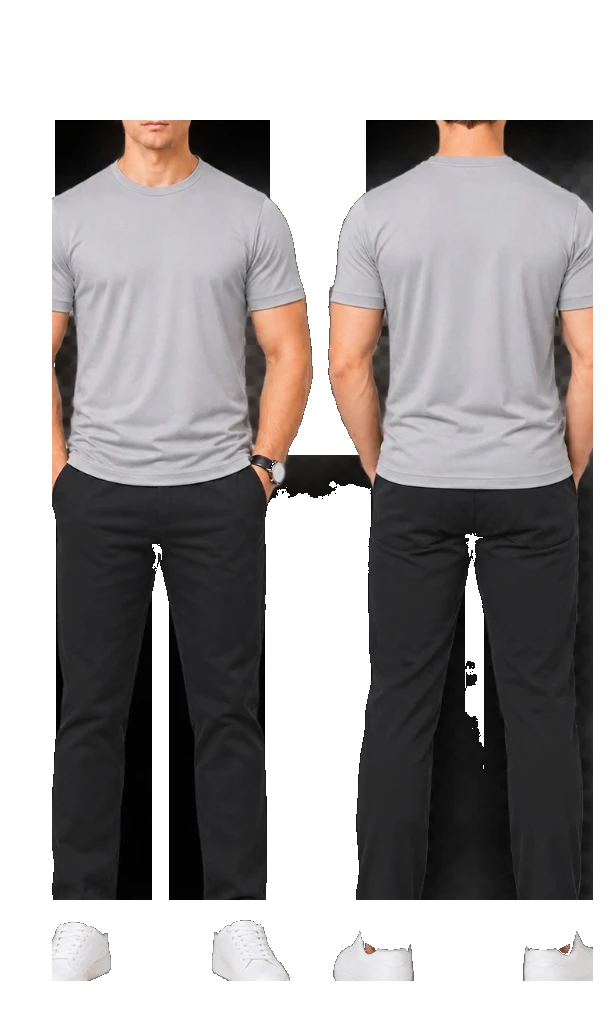
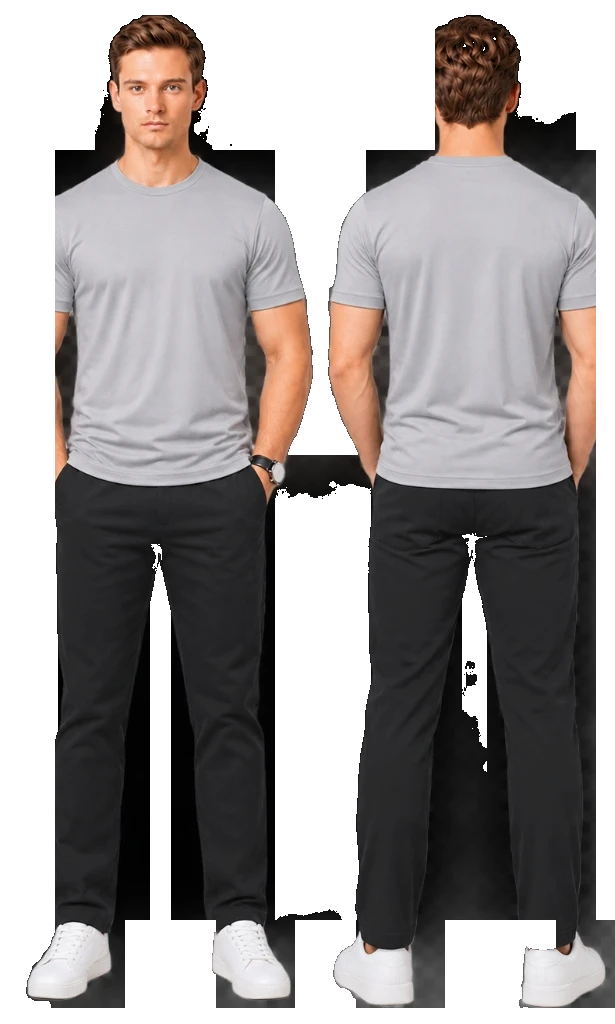
feat(showcase): align grounded decreasing queue, right-align enlarged main model, add glassmorphism and animated colloidal cards

diff --git a/src/pages/Categories/components/ClientUniformShowcase.tsx b/src/pages/Categories/components/ClientUniformShowcase.tsx
@@ -718,9 +718,9 @@ export const ClientUniformShowcase: React.FC<ClientUniformShowcaseProps> = ({
     >
       <div className="max-w-[1440px] mx-auto px-4 sm:px-6 lg:px-8 w-full relative z-10 flex flex-col justify-center h-full">
         {/* DESKTOP VIEW (Main Model aligned on Right near 4 detail cards, shaded models on Left in decreasing size) */}
-        <div className="hidden lg:flex items-center justify-between gap-6 xl:gap-8 h-full">
+        <div className="hidden lg:flex items-center justify-between gap-4 xl:gap-6 h-full">
           {/* Left Column: Heading, Carousel Stage with Left-Staggered Models, Thin-line Loader */}
-          <div className="flex-1 flex flex-col justify-between max-w-[900px] xl:max-w-[980px] h-full py-4">
+          <div className="flex-1 flex flex-col justify-between h-full py-2">
             {/* Header Content */}
             <div className="text-left space-y-2">
               <span className="text-xs sm:text-[13px] font-heading font-extrabold uppercase tracking-widest text-[#82132C] block">
@@ -736,61 +736,53 @@ export const ClientUniformShowcase: React.FC<ClientUniformShowcaseProps> = ({
 
             {/* Showcase Stage: Main model at right near small images, shaded models to the left in decreasing size */}
             <div
-              className="relative my-auto flex items-center justify-end min-h-[460px] xl:min-h-[520px] w-full pr-2 xl:pr-6"
-              style={{ perspective: '1100px' }}
+              className="relative my-auto flex items-end justify-end h-[500px] xl:h-[550px] w-full pr-1 overflow-visible"
+              style={{ perspective: '1200px' }}
             >
               {/* Warm Soft Ambient Halo behind main model */}
-              <div className="absolute top-1/2 right-20 xl:right-28 -translate-y-1/2 w-[380px] h-[380px] rounded-full bg-gradient-to-r from-burgundy-100/35 via-warm-100/50 to-burgundy-50/25 blur-3xl pointer-events-none" />
+              <div className="absolute top-1/2 right-12 xl:right-16 -translate-y-1/2 w-[420px] h-[420px] rounded-full bg-gradient-to-r from-burgundy-100/35 via-warm-100/40 to-burgundy-50/20 blur-3xl pointer-events-none" />
 
-              {/* Backward Option Button (No border, No shadow, Smaller Size) */}
+              {/* Backward Option Button - Sleek Glassmorphic Circular Button */}
               <button
                 onClick={handlePrev}
                 aria-label="Previous showcase slide"
-                className="absolute left-0 z-40 w-7 h-7 sm:w-8 sm:h-8 rounded-full bg-transparent hover:bg-black/5 text-charcoal-700 hover:text-burgundy-700 border-none shadow-none flex items-center justify-center transition-all duration-200 cursor-pointer"
+                className="absolute left-2 top-1/2 -translate-y-1/2 z-40 w-10 h-10 rounded-full bg-white/85 hover:bg-white backdrop-blur-md text-charcoal-700 hover:text-burgundy-700 border border-white/90 shadow-soft hover:shadow-soft-lg flex items-center justify-center transition-all duration-300 hover:scale-110 active:scale-95 cursor-pointer"
               >
                 <ChevronLeft className="w-5 h-5 stroke-[2.2]" />
               </button>
 
-              {/* Shaded Left Model 3 (Smallest, furthest left, only when > 3 slides) */}
+              {/* Shaded Left Model 3 (Smallest, furthest left, decreasing size step, only when > 3 slides) */}
               {totalSlides > 3 && (
                 <div
                   onClick={() => {
                     setProgress(0);
                     setCurrentIndex(leftIdx3);
                   }}
-                  className="absolute left-8 xl:left-12 top-1/2 z-10 w-[200px] xl:w-[220px] opacity-15 hover:opacity-40 transition-all duration-700 cursor-pointer filter grayscale-[40%] blur-[0.6px]"
-                  style={{
-                    transform: 'translateY(-50%) rotateY(28deg) scale(0.48) translateZ(-80px)',
-                    transformStyle: 'preserve-3d',
-                  }}
+                  className="absolute left-10 xl:left-14 bottom-0 z-10 w-[170px] xl:w-[190px] h-[270px] xl:h-[295px] backdrop-blur-md bg-white/20 border border-white/40 shadow-[0_4px_20px_rgba(0,0,0,0.03)] rounded-3xl p-1.5 flex items-end justify-center transition-all duration-700 hover:scale-[1.05] cursor-pointer"
                   title={`Switch to ${slides[leftIdx3].brand}`}
                 >
                   <img
                     src={slides[leftIdx3].modelImage}
                     alt={slides[leftIdx3].brand}
-                    className="w-full h-auto max-h-[380px] object-contain select-none"
+                    className="w-full h-full object-contain object-bottom select-none filter grayscale-[35%] opacity-30 hover:opacity-60 transition-all duration-500"
                   />
                 </div>
               )}
 
-              {/* Shaded Left Model 2 (Medium small, mid-left, only when > 2 slides) */}
+              {/* Shaded Left Model 2 (Medium small, mid-left, decreasing size step, only when > 2 slides) */}
               {totalSlides > 2 && (
                 <div
                   onClick={() => {
                     setProgress(0);
                     setCurrentIndex(leftIdx2);
                   }}
-                  className="absolute left-[150px] xl:left-[200px] top-1/2 z-15 w-[230px] xl:w-[260px] opacity-28 hover:opacity-55 transition-all duration-700 cursor-pointer filter grayscale-[30%] blur-[0.4px]"
-                  style={{
-                    transform: 'translateY(-50%) rotateY(24deg) scale(0.62) translateZ(-50px)',
-                    transformStyle: 'preserve-3d',
-                  }}
+                  className="absolute left-[160px] xl:left-[195px] bottom-0 z-15 w-[210px] xl:w-[235px] h-[340px] xl:h-[370px] backdrop-blur-md bg-white/25 border border-white/50 shadow-[0_6px_24px_rgba(0,0,0,0.04)] rounded-3xl p-2 flex items-end justify-center transition-all duration-700 hover:scale-[1.04] cursor-pointer"
                   title={`Switch to ${slides[leftIdx2].brand}`}
                 >
                   <img
                     src={slides[leftIdx2].modelImage}
                     alt={slides[leftIdx2].brand}
-                    className="w-full h-auto max-h-[420px] object-contain select-none"
+                    className="w-full h-full object-contain object-bottom select-none filter grayscale-[22%] opacity-45 hover:opacity-75 transition-all duration-500"
                   />
                 </div>
               )}
@@ -802,41 +794,34 @@ export const ClientUniformShowcase: React.FC<ClientUniformShowcaseProps> = ({
                     setProgress(0);
                     setCurrentIndex(leftIdx1);
                   }}
-                  className="absolute right-[280px] xl:right-[330px] top-1/2 z-20 w-[270px] xl:w-[310px] opacity-45 hover:opacity-75 transition-all duration-700 cursor-pointer filter grayscale-[18%] blur-[0.2px]"
-                  style={{
-                    transform: 'translateY(-50%) rotateY(18deg) scale(0.76) translateZ(-25px)',
-                    transformStyle: 'preserve-3d',
-                  }}
+                  className="absolute right-[330px] xl:right-[390px] bottom-0 z-20 w-[260px] xl:w-[295px] h-[415px] xl:h-[455px] backdrop-blur-md bg-white/35 border border-white/60 shadow-[0_8px_30px_rgba(0,0,0,0.06)] rounded-3xl p-2 flex items-end justify-center transition-all duration-700 hover:scale-[1.03] cursor-pointer"
                   title={`Switch to ${slides[leftIdx1].brand}`}
                 >
                   <img
                     src={slides[leftIdx1].modelImage}
                     alt={slides[leftIdx1].brand}
-                    className="w-full h-auto max-h-[450px] xl:max-h-[490px] object-contain select-none"
+                    className="w-full h-full object-contain object-bottom select-none filter grayscale-[12%] opacity-60 hover:opacity-90 transition-all duration-500"
                   />
                 </div>
               )}
 
-              {/* MAIN ACTIVE MODEL (Aligned on right side, directly adjacent to the 4 small detail cards) */}
+              {/* MAIN ACTIVE MODEL (Aligned on right side directly adjacent to 4 detail cards, in increased size, no glassmorphism container) */}
               <div
-                className="relative z-30 w-full max-w-[390px] xl:max-w-[440px] flex items-center justify-center transition-all duration-700 ease-out"
-                style={{
-                  transformStyle: 'preserve-3d',
-                }}
+                className="relative z-30 w-[350px] lg:w-[390px] xl:w-[440px] h-[480px] xl:h-[530px] flex items-end justify-center transition-all duration-700 ease-out mr-3 xl:mr-4"
               >
                 <img
                   key={currentSlide.id}
                   src={currentSlide.modelImage}
                   alt={`${currentSlide.brand} showcase`}
-                  className="w-full h-auto max-h-[460px] xl:max-h-[520px] object-contain drop-shadow-[0_16px_30px_rgba(0,0,0,0.14)] transition-all duration-700 select-none"
+                  className="w-full h-full object-contain object-bottom drop-shadow-[0_20px_35px_rgba(0,0,0,0.16)] transition-all duration-700 select-none"
                 />
               </div>
 
-              {/* Forward Option Button (No border, No shadow, Smaller Size) */}
+              {/* Forward Option Button - Sleek Glassmorphic Circular Button */}
               <button
                 onClick={handleNext}
                 aria-label="Next showcase slide"
-                className="absolute right-[-14px] xl:right-[-20px] z-40 w-7 h-7 sm:w-8 sm:h-8 rounded-full bg-transparent hover:bg-black/5 text-charcoal-700 hover:text-burgundy-700 border-none shadow-none flex items-center justify-center transition-all duration-200 cursor-pointer"
+                className="absolute right-0 xl:right-1 top-1/2 -translate-y-1/2 z-40 w-10 h-10 rounded-full bg-white/85 hover:bg-white backdrop-blur-md text-charcoal-700 hover:text-burgundy-700 border border-white/90 shadow-soft hover:shadow-soft-lg flex items-center justify-center transition-all duration-300 hover:scale-110 active:scale-95 cursor-pointer"
               >
                 <ChevronRight className="w-5 h-5 stroke-[2.2]" />
               </button>
@@ -867,23 +852,32 @@ export const ClientUniformShowcase: React.FC<ClientUniformShowcaseProps> = ({
             </div>
           </div>
 
-          {/* Right Column: 4 Circular Colloidal Shaped Detail Cards */}
-          <div className="w-[180px] xl:w-[210px] shrink-0 flex flex-col justify-center gap-2.5 xl:gap-3.5 my-auto">
-            {currentSlide.details.map((detail, idx) => (
-              <div
-                key={`${currentSlide.id}-${detail.id}-${idx}`}
-                className="relative w-full rounded-[26px] xl:rounded-[32px] overflow-hidden shadow-[0_5px_14px_rgba(0,0,0,0.10)] hover:shadow-[0_8px_20px_rgba(0,0,0,0.16)] transition-all duration-500 hover:scale-[1.03] aspect-[16/10] bg-transparent"
-                style={{
-                  borderRadius: '26px',
-                }}
-              >
-                <img
-                  src={detail.image}
-                  alt={detail.title}
-                  className="w-full h-full object-cover rounded-[26px] xl:rounded-[32px]"
-                />
-              </div>
-            ))}
+          {/* Right Column: 4 Circular Colloidal Shaped Detail Cards with Glassmorphism and Animated on Slide Change */}
+          <div className="w-[180px] xl:w-[210px] shrink-0 flex flex-col justify-center gap-2.5 xl:gap-3 my-auto z-30">
+            {currentSlide.details.map((detail, idx) => {
+              // Smooth Colloidal Circular Shapes
+              const colloidalRadii = [
+                'rounded-[38px_24px_38px_24px]',
+                'rounded-[24px_38px_24px_38px]',
+                'rounded-[36px_26px_36px_26px]',
+                'rounded-[26px_36px_26px_36px]',
+              ];
+              return (
+                <div
+                  key={`${currentSlide.id}-${detail.id}-${idx}`}
+                  className={`relative w-full aspect-[16/10] backdrop-blur-md bg-white/45 border-2 border-white/80 shadow-[0_8px_22px_rgba(88,8,25,0.08)] hover:shadow-[0_12px_28px_rgba(88,8,25,0.16)] transition-all duration-500 hover:scale-[1.04] p-1 overflow-hidden animate-colloidal-pop ${colloidalRadii[idx % 4]}`}
+                  style={{
+                    animationDelay: `${idx * 75}ms`,
+                  }}
+                >
+                  <img
+                    src={detail.image}
+                    alt={detail.title}
+                    className={`w-full h-full object-cover select-none ${colloidalRadii[idx % 4]}`}
+                  />
+                </div>
+              );
+            })}
           </div>
         </div>
 
@@ -902,9 +896,9 @@ export const ClientUniformShowcase: React.FC<ClientUniformShowcaseProps> = ({
             </p>
           </div>
 
-          {/* Mobile Stage: Main Model positioned right-center, shaded models on left */}
+          {/* Mobile Stage: Main Model positioned right-center, shaded models on left with glassmorphism */}
           <div
-            className="relative py-2 flex items-center justify-end min-h-[290px] xs:min-h-[310px] w-full overflow-hidden"
+            className="relative py-2 flex items-end justify-end h-[300px] xs:h-[330px] sm:h-[360px] w-full overflow-hidden"
             style={{ perspective: '800px' }}
           >
             {/* Ambient Glow */}
@@ -914,9 +908,9 @@ export const ClientUniformShowcase: React.FC<ClientUniformShowcaseProps> = ({
             <button
               onClick={handlePrev}
               aria-label="Previous showcase slide"
-              className="absolute left-1 z-30 w-7 h-7 rounded-full bg-transparent hover:bg-black/5 text-charcoal-700 border-none shadow-none flex items-center justify-center cursor-pointer"
+              className="absolute left-1 top-1/2 -translate-y-1/2 z-30 w-8 h-8 rounded-full bg-white/85 hover:bg-white backdrop-blur-md text-charcoal-700 hover:text-burgundy-700 border border-white/90 shadow-soft flex items-center justify-center cursor-pointer transition-all active:scale-95"
             >
-              <ChevronLeft className="w-5 h-5" />
+              <ChevronLeft className="w-5 h-5 stroke-[2.2]" />
             </button>
 
             {/* Left Shaded Model 2 (only when > 2 slides) */}
@@ -926,13 +920,12 @@ export const ClientUniformShowcase: React.FC<ClientUniformShowcaseProps> = ({
                   setProgress(0);
                   setCurrentIndex(leftIdx2);
                 }}
-                className="absolute left-2 top-1/2 -translate-y-1/2 z-10 w-[110px] opacity-20 filter grayscale-[35%]"
-                style={{ transform: 'translateY(-50%) rotateY(20deg) scale(0.55)' }}
+                className="absolute left-2 bottom-0 z-10 w-[95px] xs:w-[110px] h-[180px] xs:h-[200px] backdrop-blur-md bg-white/25 border border-white/45 shadow-2xs rounded-2xl p-1 flex items-end justify-center transition-all duration-500 cursor-pointer"
               >
                 <img
                   src={slides[leftIdx2].modelImage}
                   alt={slides[leftIdx2].brand}
-                  className="w-full h-auto max-h-[190px] object-contain select-none"
+                  className="w-full h-full object-contain object-bottom select-none filter grayscale-[30%] opacity-35"
                 />
               </div>
             )}
@@ -944,24 +937,23 @@ export const ClientUniformShowcase: React.FC<ClientUniformShowcaseProps> = ({
                   setProgress(0);
                   setCurrentIndex(leftIdx1);
                 }}
-                className="absolute left-[65px] xs:left-[80px] sm:left-[110px] top-1/2 -translate-y-1/2 z-15 w-[130px] opacity-40 filter grayscale-[20%]"
-                style={{ transform: 'translateY(-50%) rotateY(16deg) scale(0.72)' }}
+                className="absolute left-[70px] xs:left-[85px] sm:left-[115px] bottom-0 z-15 w-[125px] xs:w-[140px] sm:w-[160px] h-[220px] xs:h-[250px] sm:h-[280px] backdrop-blur-md bg-white/35 border border-white/55 shadow-soft rounded-2xl p-1.5 flex items-end justify-center transition-all duration-500 cursor-pointer"
               >
                 <img
                   src={slides[leftIdx1].modelImage}
                   alt={slides[leftIdx1].brand}
-                  className="w-full h-auto max-h-[225px] object-contain select-none"
+                  className="w-full h-full object-contain object-bottom select-none filter grayscale-[18%] opacity-55"
                 />
               </div>
             )}
 
-            {/* Active Main Model: Aligned near right side on mobile */}
-            <div className="relative z-20 w-full max-w-[210px] xs:max-w-[230px] sm:max-w-[260px] mr-4 xs:mr-6 flex items-center justify-center">
+            {/* Active Main Model: Aligned near right side on mobile, increased size, uncropped, grounded */}
+            <div className="relative z-20 w-[190px] xs:w-[215px] sm:w-[245px] h-[280px] xs:h-[310px] sm:h-[340px] mr-3 xs:mr-5 flex items-end justify-center">
               <img
                 key={currentSlide.id}
                 src={currentSlide.modelImage}
                 alt={`${currentSlide.brand} showcase`}
-                className="w-full h-auto max-h-[285px] xs:max-h-[305px] object-contain drop-shadow-[0_12px_22px_rgba(0,0,0,0.12)] transition-all duration-500 select-none"
+                className="w-full h-full object-contain object-bottom drop-shadow-[0_14px_24px_rgba(0,0,0,0.14)] transition-all duration-500 select-none"
               />
             </div>
 
@@ -969,9 +961,9 @@ export const ClientUniformShowcase: React.FC<ClientUniformShowcaseProps> = ({
             <button
               onClick={handleNext}
               aria-label="Next showcase slide"
-              className="absolute right-1 z-30 w-7 h-7 rounded-full bg-transparent hover:bg-black/5 text-charcoal-700 border-none shadow-none flex items-center justify-center cursor-pointer"
+              className="absolute right-1 top-1/2 -translate-y-1/2 z-30 w-8 h-8 rounded-full bg-white/85 hover:bg-white backdrop-blur-md text-charcoal-700 hover:text-burgundy-700 border border-white/90 shadow-soft flex items-center justify-center cursor-pointer transition-all active:scale-95"
             >
-              <ChevronRight className="w-5 h-5" />
+              <ChevronRight className="w-5 h-5 stroke-[2.2]" />
             </button>
           </div>
 
@@ -999,21 +991,31 @@ export const ClientUniformShowcase: React.FC<ClientUniformShowcaseProps> = ({
             ))}
           </div>
 
-          {/* 4 Circular Colloidal Shaped Detail Cards on Mobile */}
+          {/* 4 Circular Colloidal Shaped Detail Cards on Mobile with Glassmorphism and Animation */}
           <div className="grid grid-cols-4 gap-2 xs:gap-2.5 max-w-md mx-auto w-full pt-1 px-1">
-            {currentSlide.details.map((detail, idx) => (
-              <div
-                key={`${currentSlide.id}-mobile-${detail.id}-${idx}`}
-                className="relative rounded-[16px] xs:rounded-[20px] overflow-hidden shadow-[0_3px_10px_rgba(0,0,0,0.10)] aspect-square bg-transparent"
-                style={{ borderRadius: '18px' }}
-              >
-                <img
-                  src={detail.image}
-                  alt={detail.title}
-                  className="w-full h-full object-cover rounded-[16px] xs:rounded-[20px]"
-                />
-              </div>
-            ))}
+            {currentSlide.details.map((detail, idx) => {
+              const colloidalRadii = [
+                'rounded-[24px_16px_24px_16px]',
+                'rounded-[16px_24px_16px_24px]',
+                'rounded-[22px_18px_22px_18px]',
+                'rounded-[18px_22px_18px_22px]',
+              ];
+              return (
+                <div
+                  key={`${currentSlide.id}-mobile-${detail.id}-${idx}`}
+                  className={`relative backdrop-blur-md bg-white/50 border border-white/80 shadow-[0_4px_12px_rgba(88,8,25,0.08)] aspect-square p-0.5 overflow-hidden animate-colloidal-pop ${colloidalRadii[idx % 4]}`}
+                  style={{
+                    animationDelay: `${idx * 60}ms`,
+                  }}
+                >
+                  <img
+                    src={detail.image}
+                    alt={detail.title}
+                    className={`w-full h-full object-cover select-none ${colloidalRadii[idx % 4]}`}
+                  />
+                </div>
+              );
+            })}
           </div>
         </div>
       </div>

diff --git a/src/styles/animations.css b/src/styles/animations.css
@@ -66,5 +66,23 @@
   }
 }
 
+@keyframes colloidal-pop {
+  0% {
+    opacity: 0.2;
+    transform: scale(0.88) translateY(6px);
+  }
+  60% {
+    transform: scale(1.03) translateY(-2px);
+  }
+  100% {
+    opacity: 1;
+    transform: scale(1) translateY(0);
+  }
+}
+
+.animate-colloidal-pop {
+  animation: colloidal-pop 0.55s cubic-bezier(0.34, 1.56, 0.64, 1) both;
+}
+
 
 
